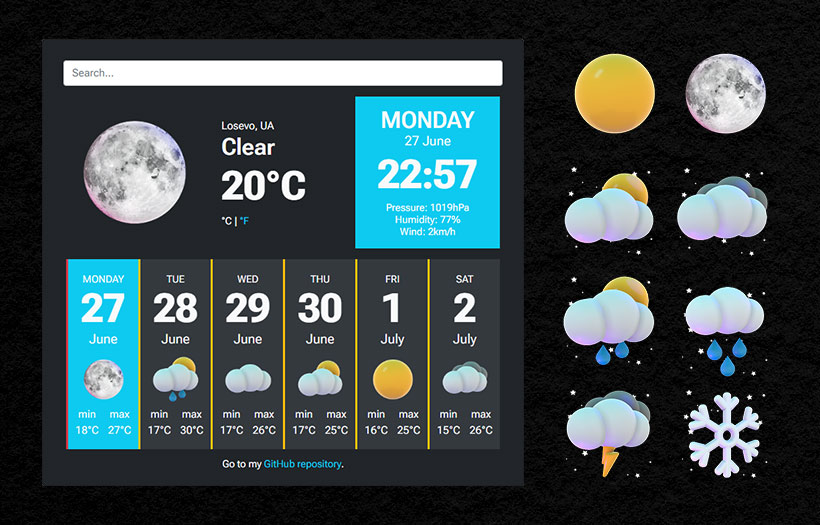
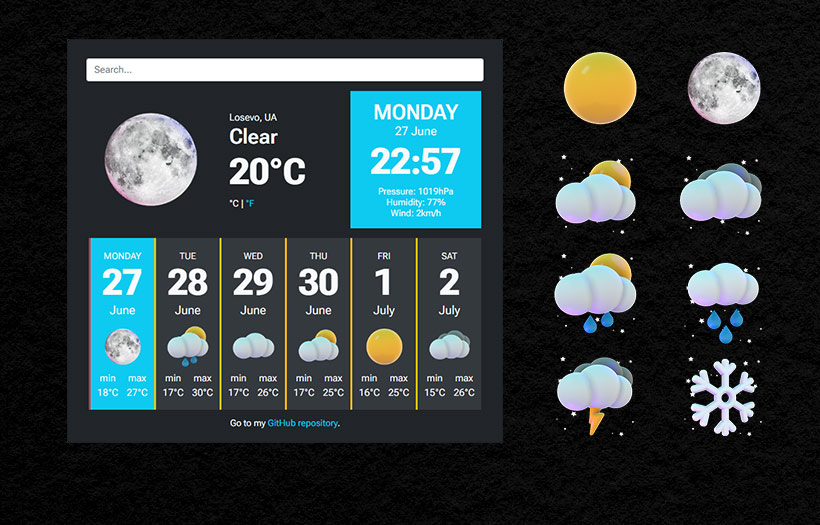
image finish

diff --git a/index.html b/index.html
@@ -294,7 +294,7 @@
             <div class="carousel-inner">
               <div class="carousel-item active">
                 <img
-                  src="/img/WheneverWeather.jpg"
+                  src="/img/WheneverWeather2.jpg"
                   class="d-block w-100 rounded-4"
                   alt="..."
                 />
@@ -308,7 +308,7 @@
               </div>
               <div class="carousel-item">
                 <img
-                  src="/img/WheneverWeather.jpg"
+                  src="/img/WheneverWeather3.jpg"
                   class="d-block w-100 rounded-4"
                   alt="..."
                 />
